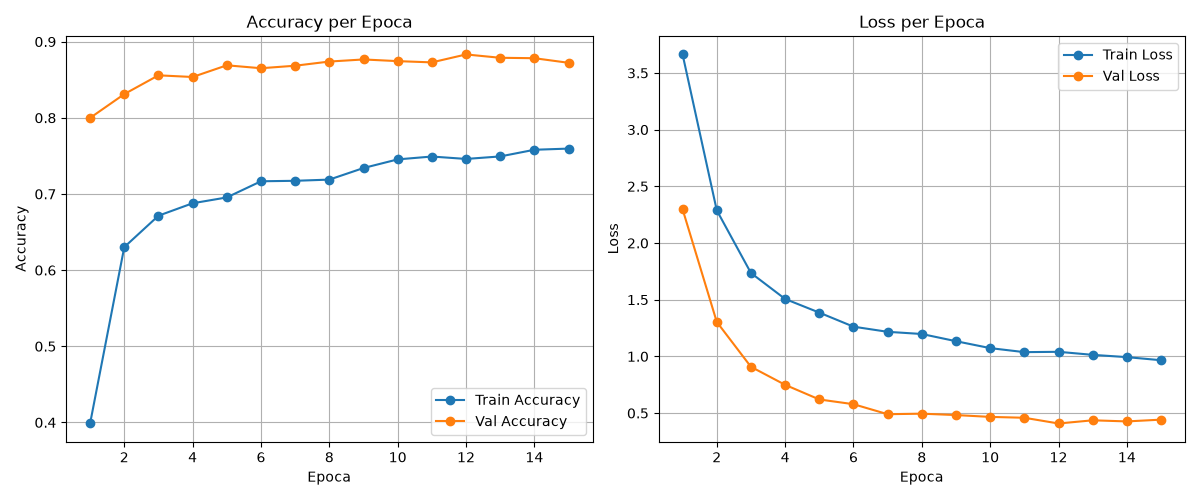
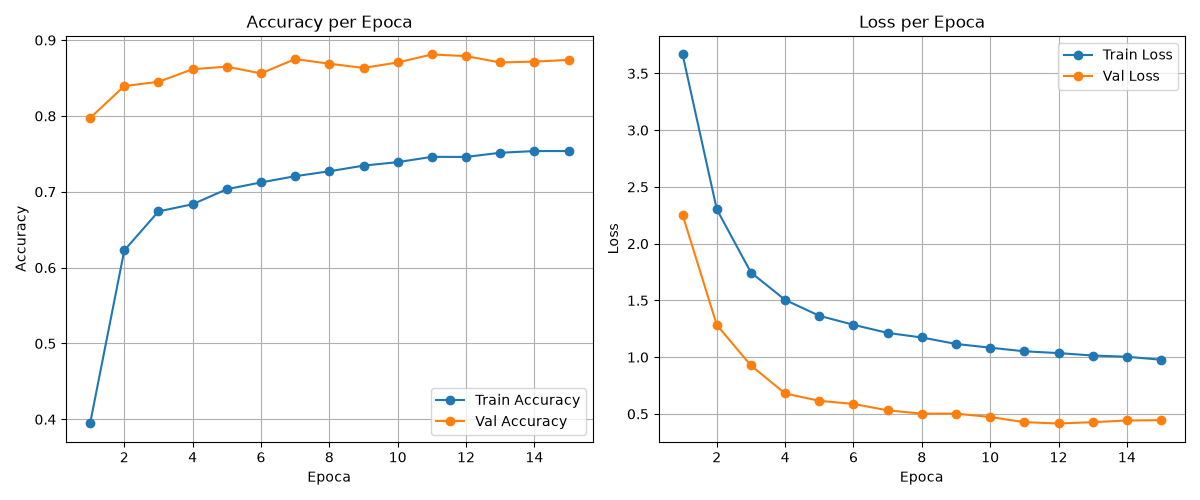
feature: script to fetch oxford data for validation

diff --git a/projects/dog-breed/src/dog_breed/train.py b/projects/dog-breed/src/dog_breed/train.py
@@ -13,14 +13,14 @@ import csv
 BATCH_SIZE = 32
 
 
-def accuracy(y_pred, y_true):
-    return (y_pred == y_true).sum().item() / len(y_pred)
+def correct_predictions(y_pred, y_true):
+    return (y_pred == y_true).sum().item()
 
 
 def train_one_epoch(model: torch.nn.Module, loader: DataLoader, loss_fn, optimizer, device):
     model.train()
     total_loss = 0
-    total_acc = 0
+    total_correct = 0
     for images, labels in tqdm(loader, desc="Training one epoch..."):
         images = images.to(device)
         labels = labels.to(device)
@@ -29,23 +29,23 @@ def train_one_epoch(model: torch.nn.Module, loader: DataLoader, loss_fn, optimiz
         outputs = model(images)
 
         loss = loss_fn(outputs, labels)
-        total_loss += loss.item()
+        total_loss += loss.item() * labels.size(0)
 
         y_preds = outputs.argmax(dim=1)
-        total_acc += accuracy(y_pred=y_preds, y_true=labels)
+        total_correct += correct_predictions(y_pred=y_preds, y_true=labels)
 
         loss.backward()
         optimizer.step()
 
 
-    return total_loss / len(loader), total_acc / len(loader)
+    return total_loss / len(loader.dataset), total_correct / len(loader.dataset)
 
 
 def evaluation(model: torch.nn.Module, loader: DataLoader, loss_fn, device):
     model.eval()
     with torch.inference_mode():
         total_loss = 0
-        total_acc = 0
+        total_correct = 0
         for images, labels in tqdm(loader, desc="Evaluating the model..."):
             images = images.to(device)
             labels = labels.to(device)
@@ -53,12 +53,12 @@ def evaluation(model: torch.nn.Module, loader: DataLoader, loss_fn, device):
             outputs = model(images)
 
             loss = loss_fn(outputs, labels)
-            total_loss += loss.item()
+            total_loss += loss.item() * labels.size(0)
 
             y_preds = outputs.argmax(dim=1)
-            total_acc += accuracy(y_pred=y_preds, y_true=labels)   
+            total_correct += correct_predictions(y_pred=y_preds, y_true=labels)   
 
-    return total_loss / len(loader), total_acc / len(loader)
+    return total_loss / len(loader.dataset), total_correct / len(loader.dataset)
 
 
 def main():

diff --git a/projects/dog-breed/src/dog_breed/evaluate.py b/projects/dog-breed/src/dog_breed/evaluate.py
@@ -1,0 +1,31 @@
+from dog_breed.paths import MODEL_FILE
+import torch
+import torch.nn as nn
+from torch.utils.data import DataLoader
+from dog_breed.model import create_model
+from dog_breed.data.splits import LABEL_SIZE
+from dog_breed.data.dataset import DogBreedDataset
+from dog_breed.data.transforms import val_test_transforms
+from dog_breed.train import evaluation
+
+BATCH_SIZE = 32
+
+def load_trained_model(device: str) -> tuple[nn.Module, dict]:
+    ckpt = torch.load(MODEL_FILE, map_location=device)
+    model = create_model(model_name=ckpt['model_name'], num_classes=LABEL_SIZE, freeze_backbone=False, pretrained=False)
+    model.load_state_dict(ckpt['state_dict'])
+    return model.to(device), ckpt
+
+
+def main():
+    device = 'cuda' if torch.cuda.is_available() else 'cpu'
+    model, ckpt = load_trained_model(device)
+    cfg = model.pretrained_cfg
+    test_ds = DogBreedDataset(split_name='test', transform=val_test_transforms(cfg))
+    loader = DataLoader(dataset=test_ds, batch_size=BATCH_SIZE, shuffle=False, num_workers=4)
+    loss, acc = evaluation(model=model, loader=loader, loss_fn=nn.CrossEntropyLoss(), device=device)
+    print(f"Model checkpoint on epoch {ckpt['epoch']} | Loss on test set: {loss:.4f} | Accuracy on test set: {acc * 100:.2f}%")
+
+
+if __name__ == "__main__":
+    main()

diff --git a/projects/dog-breed/src/dog_breed/data/oxford.py b/projects/dog-breed/src/dog_breed/data/oxford.py
@@ -1,0 +1,42 @@
+from dog_breed.paths import OXFORD_LIST_FILE
+
+
+CAT_SPECIES = 1
+DOG_SPECIES = 2
+
+
+def load_oxford_list():
+    rows = []
+    with open(OXFORD_LIST_FILE, encoding='utf-8') as f:
+        for row in f:
+            row = row.strip()
+            if not row or row.startswith('#'):
+                continue
+            fields = row.split()
+            name = fields[0]
+            species = int(fields[2])
+            rows.append((name, species))
+    return rows
+
+
+def dog_breeds(rows):
+    unique_dog_breeds = set()
+    for name, species in rows:
+        if species != DOG_SPECIES:
+            continue
+        dog_breed = name.rsplit('_', 1)[0]
+        unique_dog_breeds.add(dog_breed)
+    return sorted(unique_dog_breeds)
+
+
+def main():
+    rows = load_oxford_list()
+    num_of_dogs = sum(1 for _, species in rows if species == DOG_SPECIES)
+    num_of_cats = sum(1 for _, species in rows if species == CAT_SPECIES)
+    print(f"Total rows: {len(rows)} | total dogs: {num_of_dogs} | total cats: {num_of_cats}")
+    unique_dog_breeds = dog_breeds(rows)
+    print(f"Number of dog breeds: {len(unique_dog_breeds)}\n{unique_dog_breeds}")
+
+
+if __name__ == "__main__":
+    main()

diff --git a/projects/dog-breed/src/dog_breed/model.py b/projects/dog-breed/src/dog_breed/model.py
@@ -2,11 +2,11 @@ import timm
 import torch
 from dog_breed.paths import MODEL_DIR, MODEL_FILE
 
-def create_model(model_name="resnet50", num_classes=120, freeze_backbone=True) -> torch.nn.Module:
+def create_model(model_name="resnet50", num_classes=120, freeze_backbone=True, pretrained=True) -> torch.nn.Module:
     """
     Create a model using the timm library.
     """  
-    model = timm.create_model(model_name, pretrained=True, num_classes=num_classes)
+    model = timm.create_model(model_name, pretrained=pretrained, num_classes=num_classes)
     if freeze_backbone:
         for param in model.parameters():
             param.requires_grad = False

diff --git a/projects/dog-breed/src/dog_breed/data/dataset.py b/projects/dog-breed/src/dog_breed/data/dataset.py
@@ -20,16 +20,4 @@ class DogBreedDataset(Dataset):
                 img = self.transform(img)
         return img, label
 
-def test():
-    for s in ['train', 'val', 'test']:
-      d = DogBreedDataset(s)
-      img, label = d[0]
-      last_img, last_label = d[len(d) - 1]
-      print(f'{s:6} len={len(d):6}  primo: {img.size} {img.mode} label={label}   ultimo: {last_img.size} label={last_label}')
-
-def main():
-    test()
-
-if __name__ == "__main__":
-    main()
     
